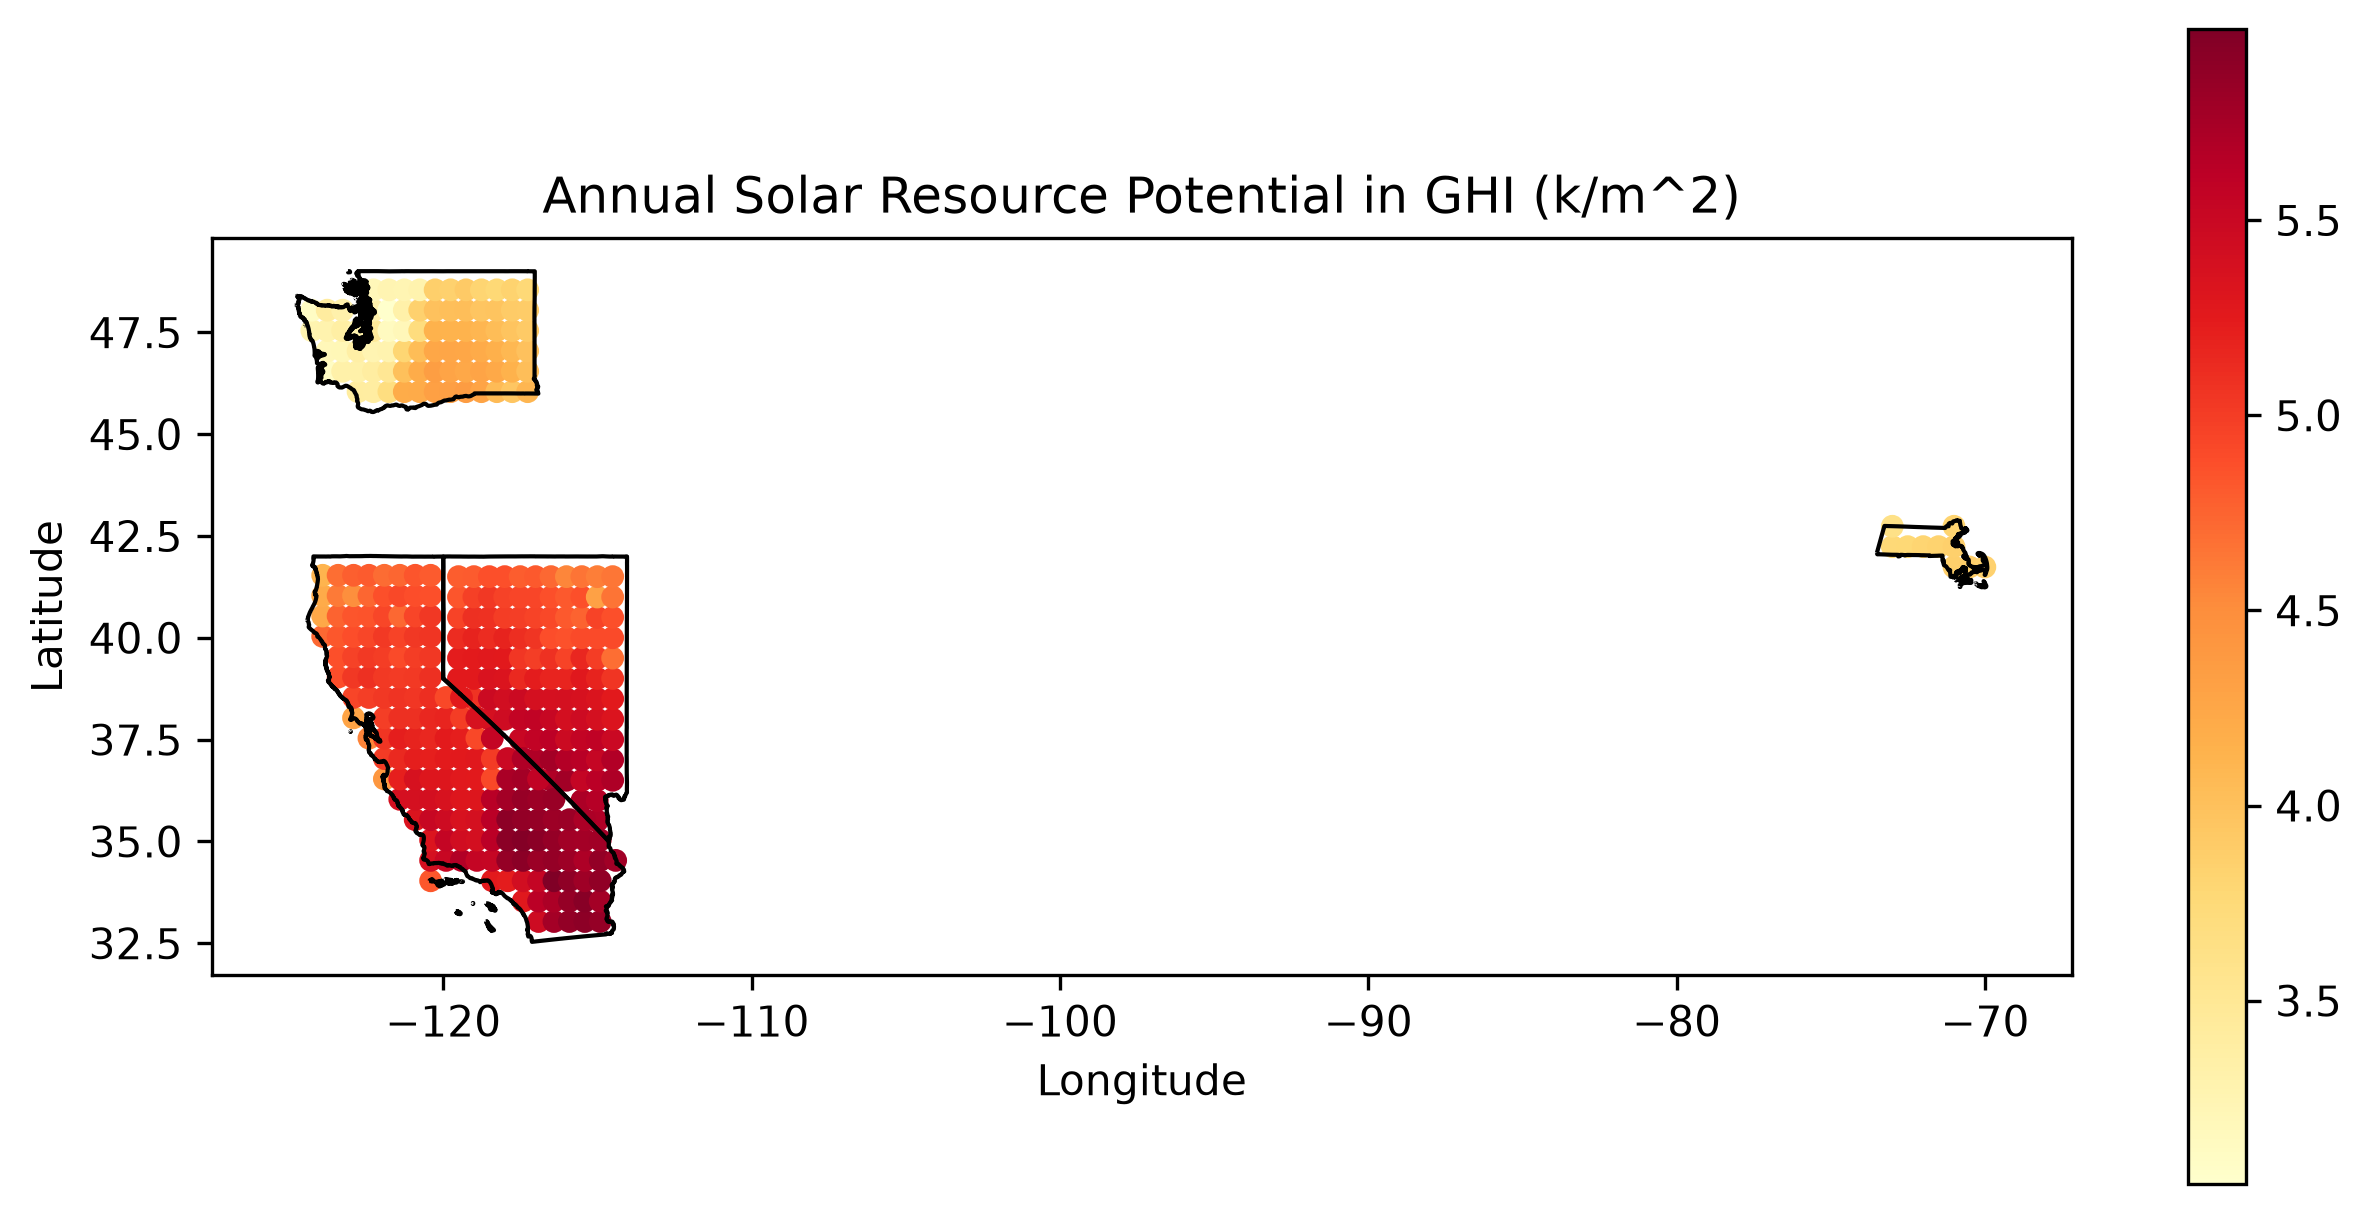
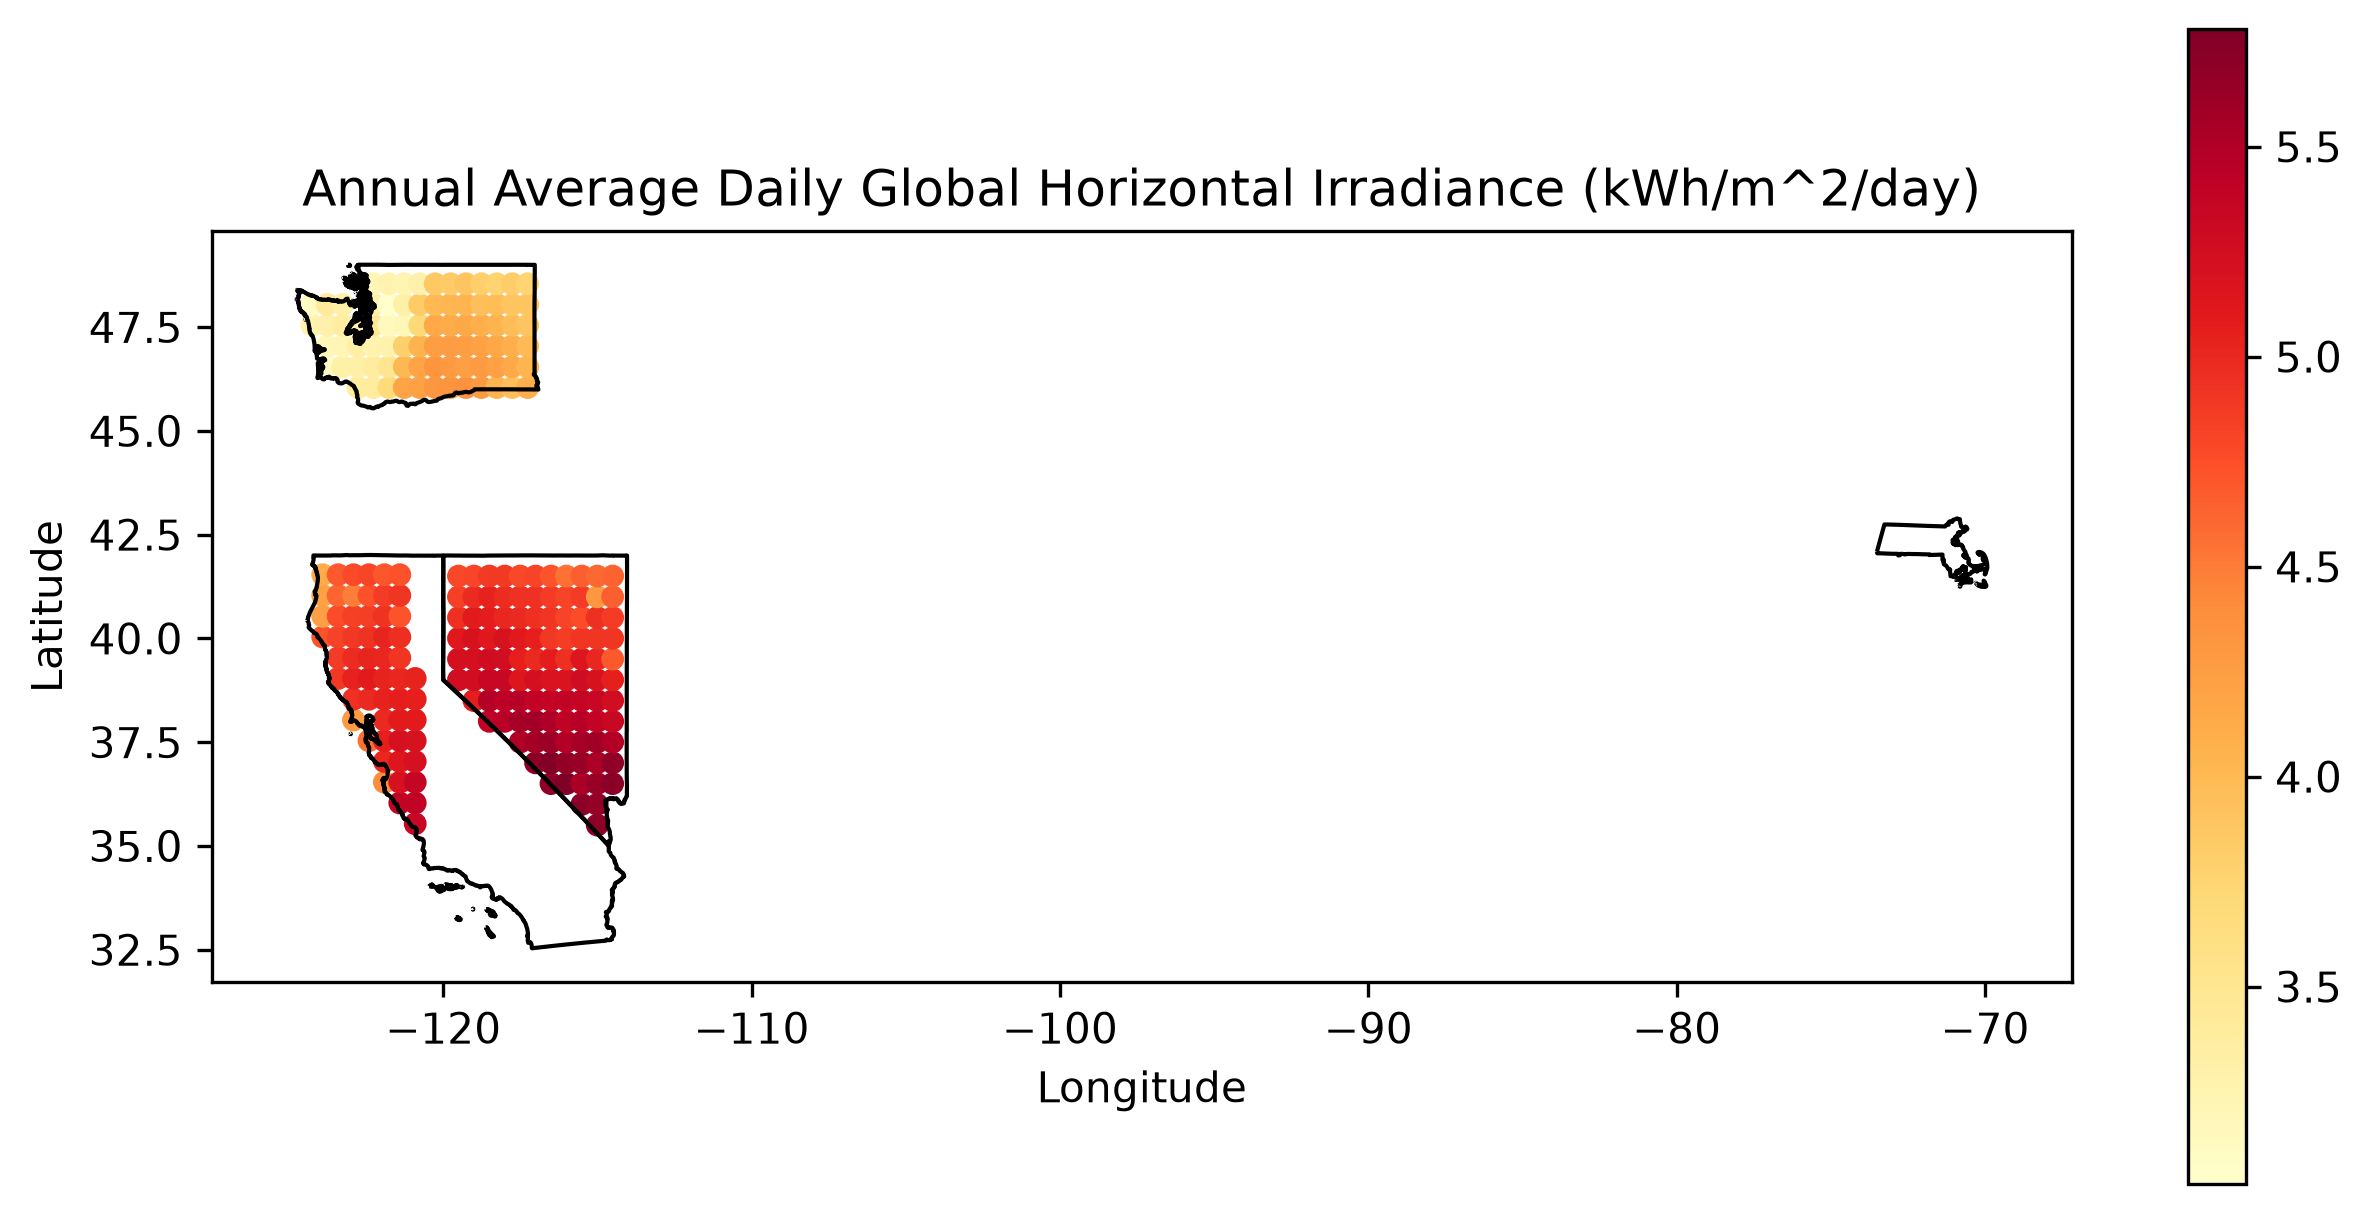
updates to map title and figure legend

diff --git a/savings_model/solar_generation_maps.py b/savings_model/solar_generation_maps.py
@@ -150,7 +150,11 @@ solar_gdf.plot(
     }
 )
 
-plt.title("Annual Solar Resource Potential in GHI (k/m^2)")
+plt.title(
+    "Annual Average Daily Global Horizontal Irradiance (kWh/m^2/day)\n"
+    "Washington, California, Nevada, and Massachusetts"
+)
+
 plt.xlabel("Longitude")
 plt.ylabel("Latitude")
 